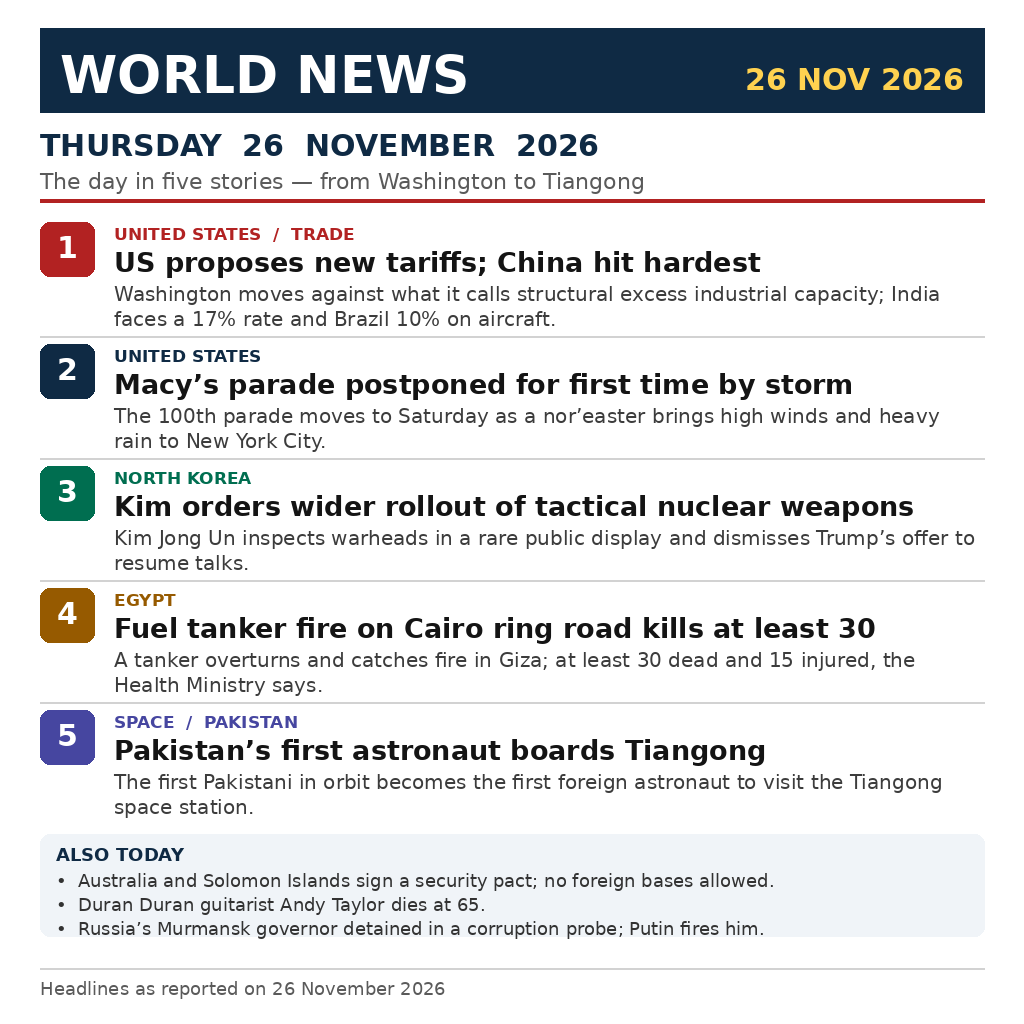
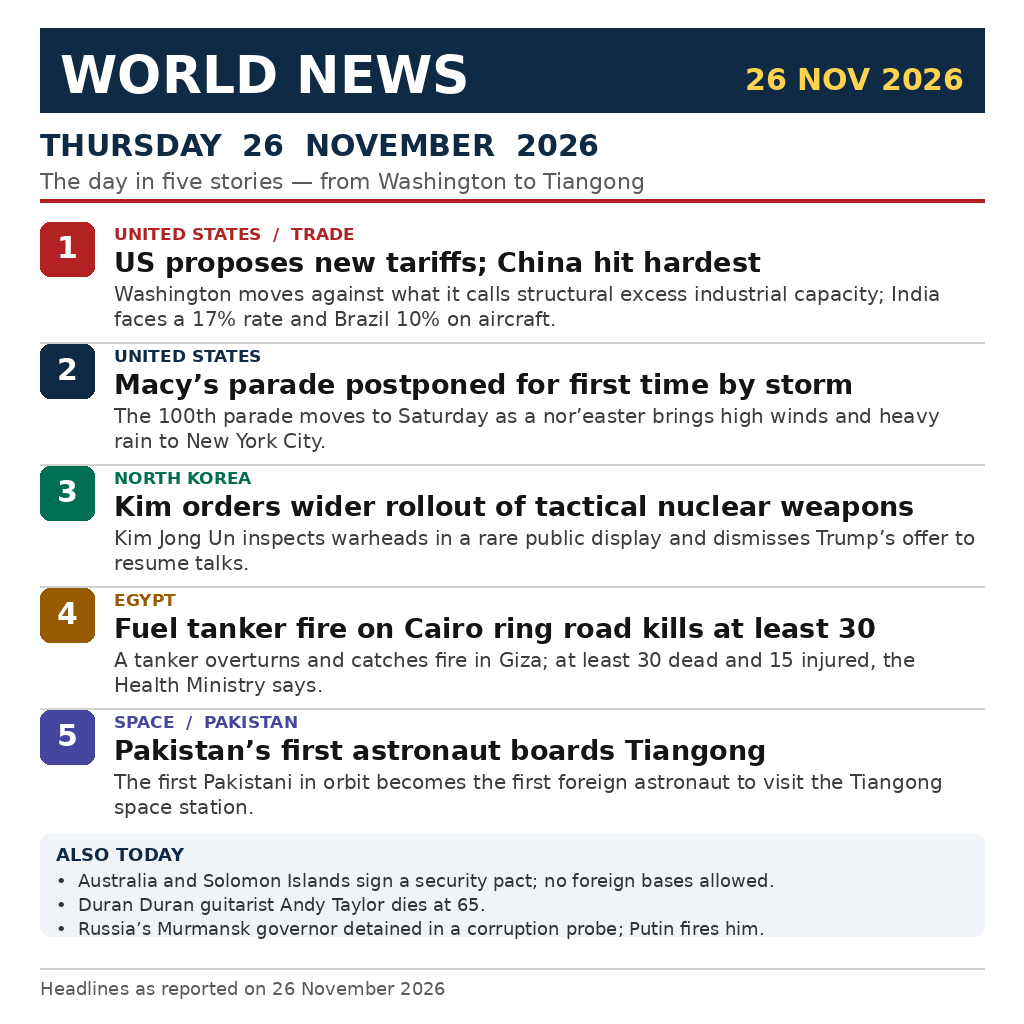
Add files via upload

Changed region(s): [[0.0625, 0.5625, 0.9375, 0.5938], [0.0625, 0.4375, 0.9375, 0.4688], [0.0625, 0.3125, 0.9375, 0.3438]]

diff --git a/draw.py b/draw.py
@@ -1,122 +1,155 @@
-"""Draw entry.png: a clean newspaper front page summing up
-Thursday 26 November 2026 in five stories. Run locally with PIL;
-the entry itself only ships the finished PNG (see main.py).
+"""Front page for Thursday 26 November 2026, drawn with Pillow.
+
+Layout, top to bottom: a navy masthead with the paper name and the
+date, a dateline, five numbered stories (colour badge, kicker, headline,
+two-line standfirst), an ALSO TODAY box, and a footer line. Run this file
+locally to regenerate entry.png; the submitted program (main.py) only
+copies the finished PNG to the output directory.
 """
+
 from PIL import Image, ImageDraw, ImageFont
 
-W, H = 1024, 1024
-BG = (255, 255, 255)
+PAGE_W, PAGE_H = 1024, 1024
+MARGIN = 40
+RIGHT = PAGE_W - MARGIN
+
+PAPER = (255, 255, 255)
 NAVY = (15, 42, 68)
 RED = (178, 34, 34)
 INK = (20, 20, 20)
-GREY = (90, 90, 90)
+MUTED = (90, 90, 90)
+BODY = (60, 60, 60)
 RULE = (210, 210, 210)
+PANEL = (240, 244, 248)
+GOLD = (255, 210, 80)
 
-FONT_BOLD = "/usr/share/fonts/truetype/dejavu/DejaVuSans-Bold.ttf"
-FONT_REG = "/usr/share/fonts/truetype/dejavu/DejaVuSans.ttf"
-
-
-def font(path, size):
-    return ImageFont.truetype(path, size)
+BOLD = "/usr/share/fonts/truetype/dejavu/DejaVuSans-Bold.ttf"
+REGULAR = "/usr/share/fonts/truetype/dejavu/DejaVuSans.ttf"
 
 
-def wrap(draw, text, fnt, max_w):
+def load(bold, size):
+    return ImageFont.truetype(BOLD if bold else REGULAR, size)
+
+
+def wrap_text(draw, text, fnt, width):
+    """Split text into lines that fit width, word by word."""
     words = text.split()
-    lines, cur = [], ""
-    for w in words:
-        trial = (cur + " " + w).strip()
-        if draw.textlength(trial, font=fnt) <= max_w:
-            cur = trial
+    lines = []
+    line = ""
+    for word in words:
+        nxt = f"{line} {word}".strip()
+        if draw.textlength(nxt, font=fnt) <= width:
+            line = nxt
         else:
-            if cur:
-                lines.append(cur)
-            cur = w
-    if cur:
-        lines.append(cur)
+            lines.append(line)
+            line = word
+    if line:
+        lines.append(line)
     return lines
 
 
 STORIES = [
-    ("1", (178, 34, 34), "UNITED STATES  /  TRADE",
-     "US proposes new tariffs; China hit hardest",
-     "Washington moves against what it calls structural excess industrial capacity; "
-     "India faces a 17% rate and Brazil 10% on aircraft."),
-    ("2", (15, 42, 68), "UNITED STATES",
-     "Macy\u2019s parade postponed for first time by storm",
-     "The 100th parade moves to Saturday as a nor\u2019easter brings high winds "
-     "and heavy rain to New York City."),
-    ("3", (0, 110, 80), "NORTH KOREA",
-     "Kim orders wider rollout of tactical nuclear weapons",
-     "Kim Jong Un inspects warheads in a rare public display and dismisses "
-     "Trump\u2019s offer to resume talks."),
-    ("4", (150, 90, 0), "EGYPT",
-     "Fuel tanker fire on Cairo ring road kills at least 30",
-     "A tanker overturns and catches fire in Giza; at least 30 dead and 15 injured, "
-     "the Health Ministry says."),
-    ("5", (70, 70, 160), "SPACE  /  PAKISTAN",
-     "Pakistan\u2019s first astronaut boards Tiangong",
-     "The first Pakistani in orbit becomes the first foreign astronaut to visit "
-     "the Tiangong space station."),
+    dict(
+        color=(178, 34, 34),
+        kicker="UNITED STATES  /  TRADE",
+        headline="US proposes new tariffs; China hit hardest",
+        stand="Washington moves against what it calls structural excess industrial "
+              "capacity; India faces a 17% rate and Brazil 10% on aircraft.",
+    ),
+    dict(
+        color=(15, 42, 68),
+        kicker="UNITED STATES",
+        headline="Macy\u2019s parade postponed for first time by storm",
+        stand="The 100th parade moves to Saturday as a nor\u2019easter brings high "
+              "winds and heavy rain to New York City.",
+    ),
+    dict(
+        color=(0, 110, 80),
+        kicker="NORTH KOREA",
+        headline="Kim orders wider rollout of tactical nuclear weapons",
+        stand="Kim Jong Un inspects warheads in a rare public display and "
+              "dismisses Trump\u2019s offer to resume talks.",
+    ),
+    dict(
+        color=(150, 90, 0),
+        kicker="EGYPT",
+        headline="Fuel tanker fire on Cairo ring road kills at least 30",
+        stand="A tanker overturns and catches fire in Giza; at least 30 dead and "
+              "15 injured, the Health Ministry says.",
+    ),
+    dict(
+        color=(70, 70, 160),
+        kicker="SPACE  /  PAKISTAN",
+        headline="Pakistan\u2019s first astronaut boards Tiangong",
+        stand="The first Pakistani in orbit becomes the first foreign astronaut "
+              "to visit the Tiangong space station.",
+    ),
+]
+
+ALSO = [
+    "Australia and Solomon Islands sign a security pact; no foreign bases allowed.",
+    "Duran Duran guitarist Andy Taylor dies at 65.",
+    "Russia\u2019s Murmansk governor detained in a corruption probe; Putin fires him.",
 ]
 
 
-def main():
-    img = Image.new("RGB", (W, H), BG)
-    d = ImageDraw.Draw(img)
-    x0, x1 = 40, 984
+def masthead(draw):
+    draw.rectangle([MARGIN, 28, RIGHT, 112], fill=NAVY)
+    draw.text((MARGIN + 20, 44), "WORLD NEWS", font=load(True, 52), fill=PAPER)
+    draw.text((RIGHT - 20, 62), "26 NOV 2026", font=load(True, 30), fill=GOLD, anchor="ra")
+    draw.text((MARGIN, 128), "THURSDAY  26  NOVEMBER  2026", font=load(True, 30), fill=NAVY)
+    draw.text((MARGIN, 168), "The day in five stories \u2014 from Washington to Tiangong",
+              font=load(False, 22), fill=MUTED)
+    draw.line([MARGIN, 200, RIGHT, 200], fill=RED, width=4)
 
-    # Masthead
-    d.rectangle([x0, 28, x1, 112], fill=NAVY)
-    d.text((x0 + 20, 44), "WORLD NEWS", font=font(FONT_BOLD, 52), fill=(255, 255, 255))
-    d.text((x1 - 20, 62), "26 NOV 2026", font=font(FONT_BOLD, 30), fill=(255, 210, 80), anchor="ra")
-    # Date line
-    d.text((x0, 128), "THURSDAY  26  NOVEMBER  2026", font=font(FONT_BOLD, 30), fill=NAVY)
-    d.text((x0, 168), "The day in five stories \u2014 from Washington to Tiangong",
-           font=font(FONT_REG, 22), fill=GREY)
-    d.line([x0, 200, x1, 200], fill=RED, width=4)
 
-    y = 222
-    for num, color, tag, head, body in STORIES:
-        # Number badge
-        d.rounded_rectangle([x0, y, x0 + 54, y + 54], radius=10, fill=color)
-        d.text((x0 + 27, y + 26), num, font=font(FONT_BOLD, 30), fill=(255, 255, 255), anchor="mm")
-        tx = x0 + 74
-        tw = x1 - tx
-        d.text((tx, y + 2), tag, font=font(FONT_BOLD, 17), fill=color)
-        hl = wrap(d, head, font(FONT_BOLD, 27), tw)
-        hy = y + 24
-        for line in hl:
-            d.text((tx, hy), line, font=font(FONT_BOLD, 27), fill=INK)
-            hy += 32
-        bl = wrap(d, body, font(FONT_REG, 20), tw)
-        by = hy + 4
-        for line in bl:
-            d.text((tx, by), line, font=font(FONT_REG, 20), fill=(60, 60, 60))
-            by += 25
-        y = by + 12
-        if num != "5":
-            d.line([x0, y - 8, x1, y - 8], fill=RULE, width=2)
+def story(draw, index, item, y):
+    """Draw one numbered story; return the y where the next block starts."""
+    color = item["color"]
+    draw.rounded_rectangle([MARGIN, y, MARGIN + 54, y + 54], radius=10, fill=color)
+    draw.text((MARGIN + 27, y + 26), str(index), font=load(True, 30), fill=PAPER, anchor="mm")
+    tx = MARGIN + 74
+    width = RIGHT - tx
+    draw.text((tx, y + 2), item["kicker"], font=load(True, 17), fill=color)
+    head = wrap_text(draw, item["headline"], load(True, 27), width)
+    hy = y + 24
+    for ln in head:
+        draw.text((tx, hy), ln, font=load(True, 27), fill=INK)
+        hy += 32
+    stand = wrap_text(draw, item["stand"], load(False, 20), width)
+    by = hy + 4
+    for ln in stand:
+        draw.text((tx, by), ln, font=load(False, 20), fill=BODY)
+        by += 25
+    return by + 12
 
-    # Also today strip (fills the page, adds breadth)
-    d.rounded_rectangle([x0, y + 2, x1, y + 104], radius=10, fill=(240, 244, 248))
-    d.text((x0 + 16, y + 12), "ALSO TODAY", font=font(FONT_BOLD, 18), fill=NAVY)
-    also = [
-        "Australia and Solomon Islands sign a security pact; no foreign bases allowed.",
-        "Duran Duran guitarist Andy Taylor dies at 65.",
-        "Russia\u2019s Murmansk governor detained in a corruption probe; Putin fires him.",
-    ]
+
+def also_today(draw, y):
+    draw.rounded_rectangle([MARGIN, y + 2, RIGHT, y + 104], radius=10, fill=PANEL)
+    draw.text((MARGIN + 16, y + 12), "ALSO TODAY", font=load(True, 18), fill=NAVY)
     ay = y + 38
-    for line in also:
-        d.text((x0 + 16, ay), "\u2022  " + line, font=font(FONT_REG, 18), fill=(50, 50, 50))
+    for item in ALSO:
+        draw.text((MARGIN + 16, ay), "\u2022  " + item, font=load(False, 18), fill=(50, 50, 50))
         ay += 24
 
-    # Footer
-    d.line([x0, 968, x1, 968], fill=RULE, width=2)
-    d.text((x0, 978), "Headlines as reported on 26 November 2026",
-           font=font(FONT_REG, 18), fill=GREY)
+
+def build():
+    img = Image.new("RGB", (PAGE_W, PAGE_H), PAPER)
+    draw = ImageDraw.Draw(img)
+    masthead(draw)
+    y = 222
+    for i, item in enumerate(STORIES, start=1):
+        y = story(draw, i, item, y)
+        if i < len(STORIES):
+            # Divider sits 10px below the standfirst (story() adds 12, we go back 2).
+            draw.line([MARGIN, y - 2, RIGHT, y - 2], fill=RULE, width=2)
+    also_today(draw, y)
+    draw.line([MARGIN, 968, RIGHT, 968], fill=RULE, width=2)
+    draw.text((MARGIN, 978), "Headlines as reported on 26 November 2026",
+              font=load(False, 18), fill=MUTED)
     img.save("entry.png", optimize=True)
     print("saved entry.png", img.size)
 
 
 if __name__ == "__main__":
-    main()
+    build()

diff --git a/main.py b/main.py
@@ -1,19 +1,26 @@
 """make.fun news-image-20261126 entry (Python 3.13, standard library only).
 
-The image is entry.png beside this file, drawn by draw.py from the
-headlines reported on Thursday 26 November 2026: US tariffs, the
-postponed Macy's parade, Kim's nuclear order, the Cairo tanker fire,
-and Pakistan's first astronaut. The grader runs this program with no
-network, so it only copies the image to /output.
+Copies the pre-drawn front page (entry.png, drawn by draw.py from the
+headlines of Thursday 26 November 2026) to the grader's output
+directory. No network, no extra dependencies; the same bytes every run.
 """
 
 import os
 import shutil
+from pathlib import Path
 
-src = os.path.join(os.path.dirname(os.path.abspath(__file__)), "entry.png")
-out = os.path.join(os.environ.get("MAKEFUN_OUTPUT_DIR", "/output"), "entry.png")
-# Deterministic: the same bytes are copied on every run, twice in grading.
-if not os.path.isfile(src):
-    raise SystemExit("entry.png missing from repository")
-os.makedirs(os.path.dirname(out), exist_ok=True)
-shutil.copyfile(src, out)
+
+def main():
+    here = Path(__file__).resolve().parent
+    src = here / "entry.png"
+    if not src.is_file():
+        raise SystemExit("entry.png missing from repository")
+    # /output is the grader's directory; local runs can point elsewhere.
+    out_dir = Path(os.environ.get("MAKEFUN_OUTPUT_DIR", "/output"))
+    out_dir.mkdir(parents=True, exist_ok=True)
+    # Deterministic: the same bytes are copied on every run, twice in grading.
+    shutil.copyfile(src, out_dir / "entry.png")
+
+
+if __name__ == "__main__":
+    main()
